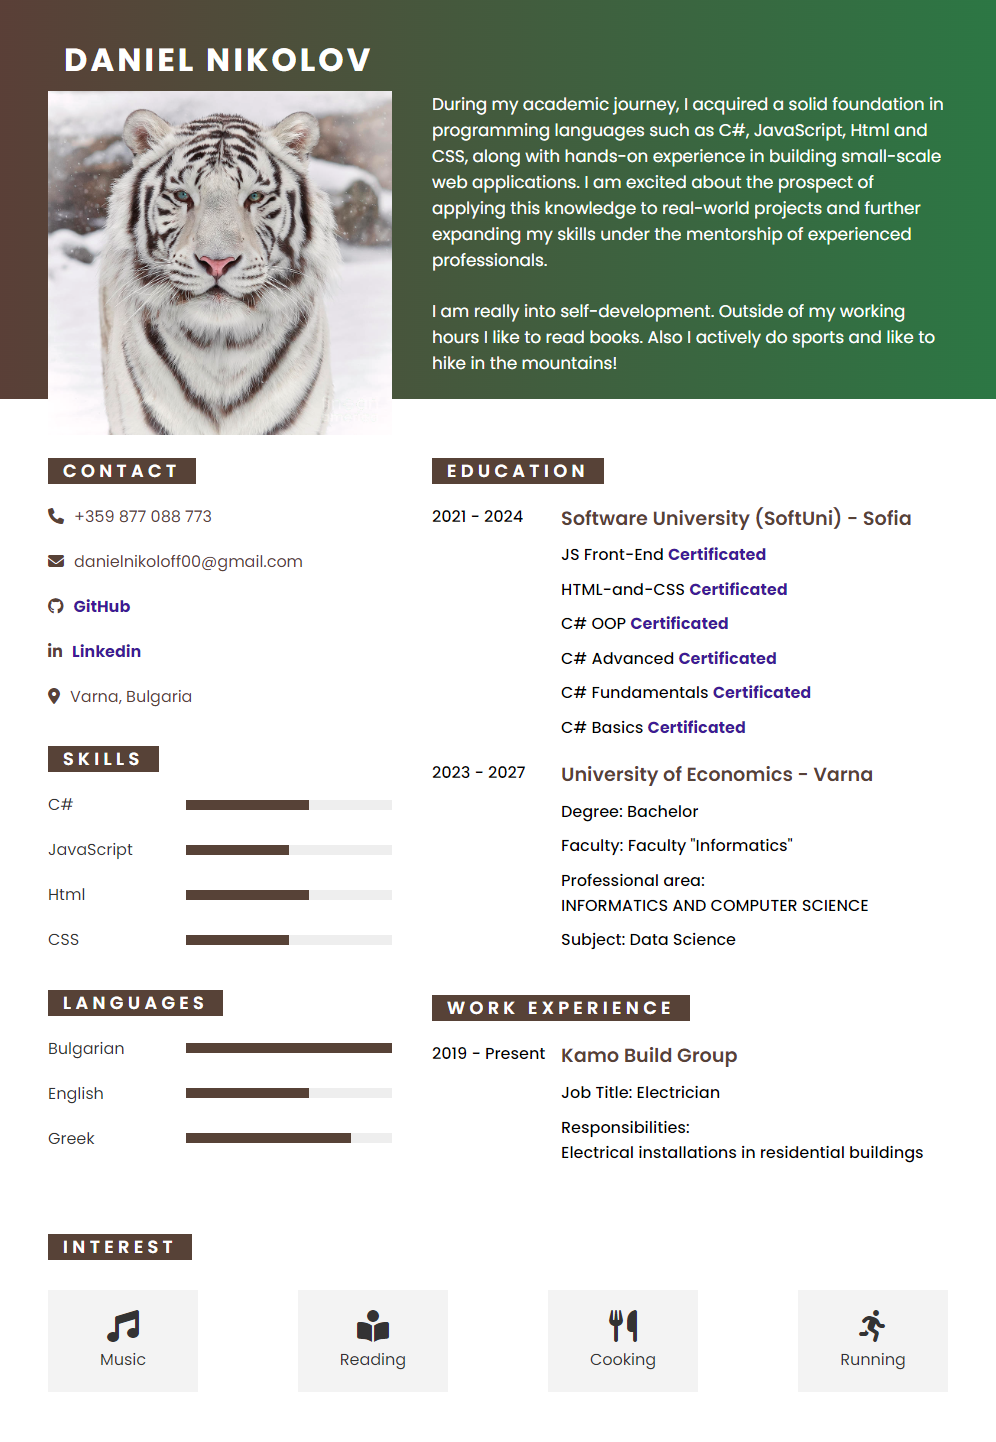
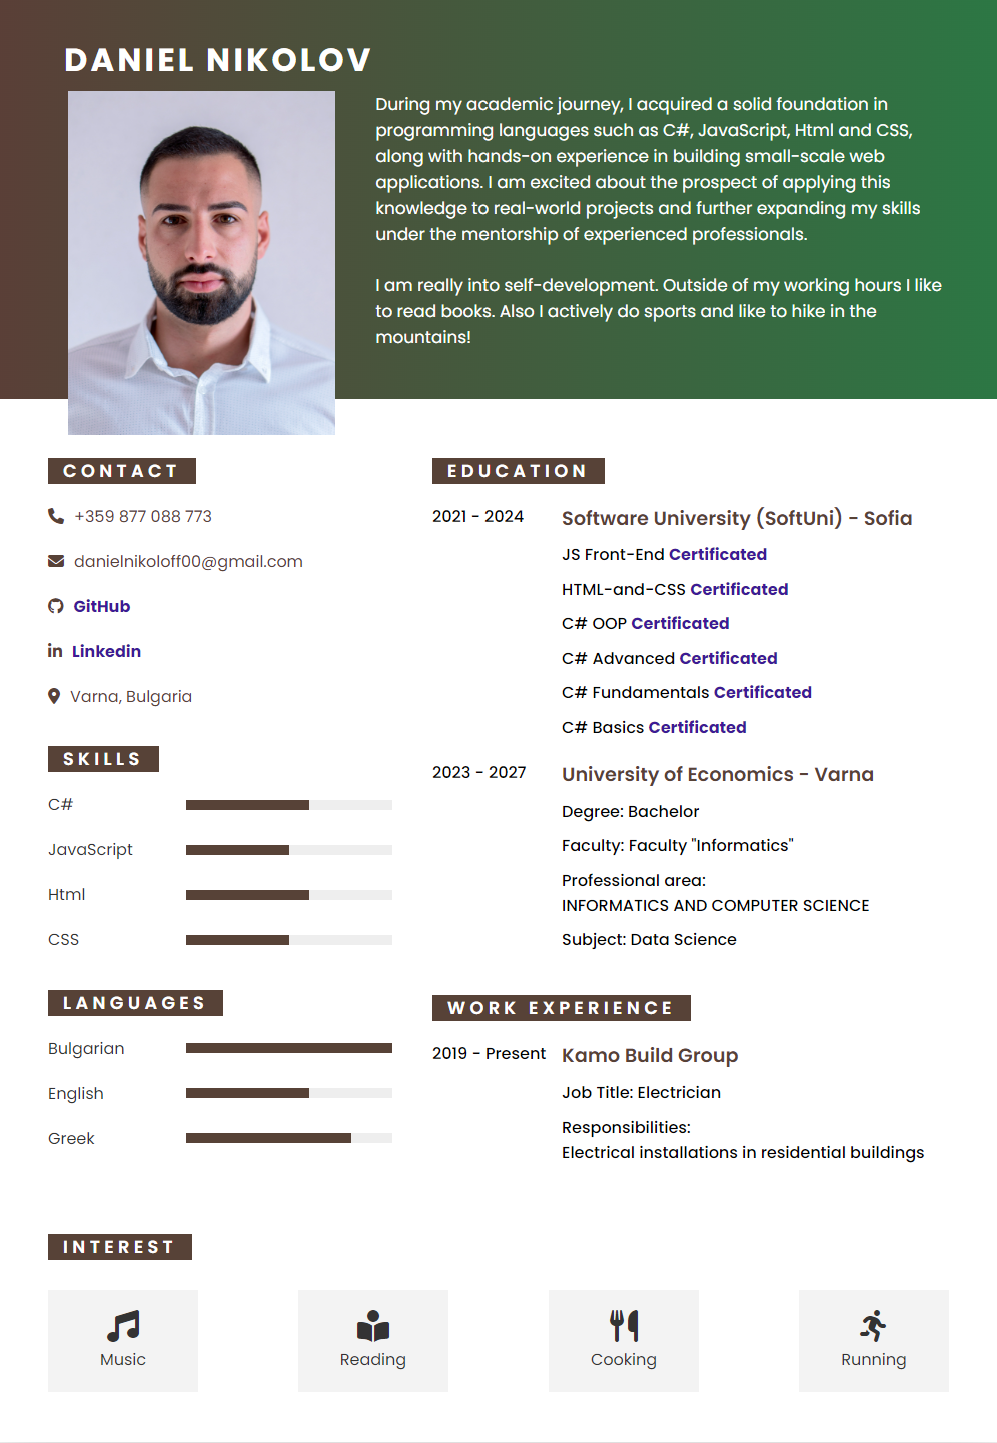
Update CV

diff --git a/style.css b/style.css
@@ -46,8 +46,9 @@ h2 {
     display: grid;
     gap: 40px;
     width: 100%;
-    grid-template-columns: 2fr 3fr;
+    grid-template-columns: 1.4fr 3fr;
     margin-top: 20px;
+    padding-left: 20px;
 }
 
 .group .imgBx {
